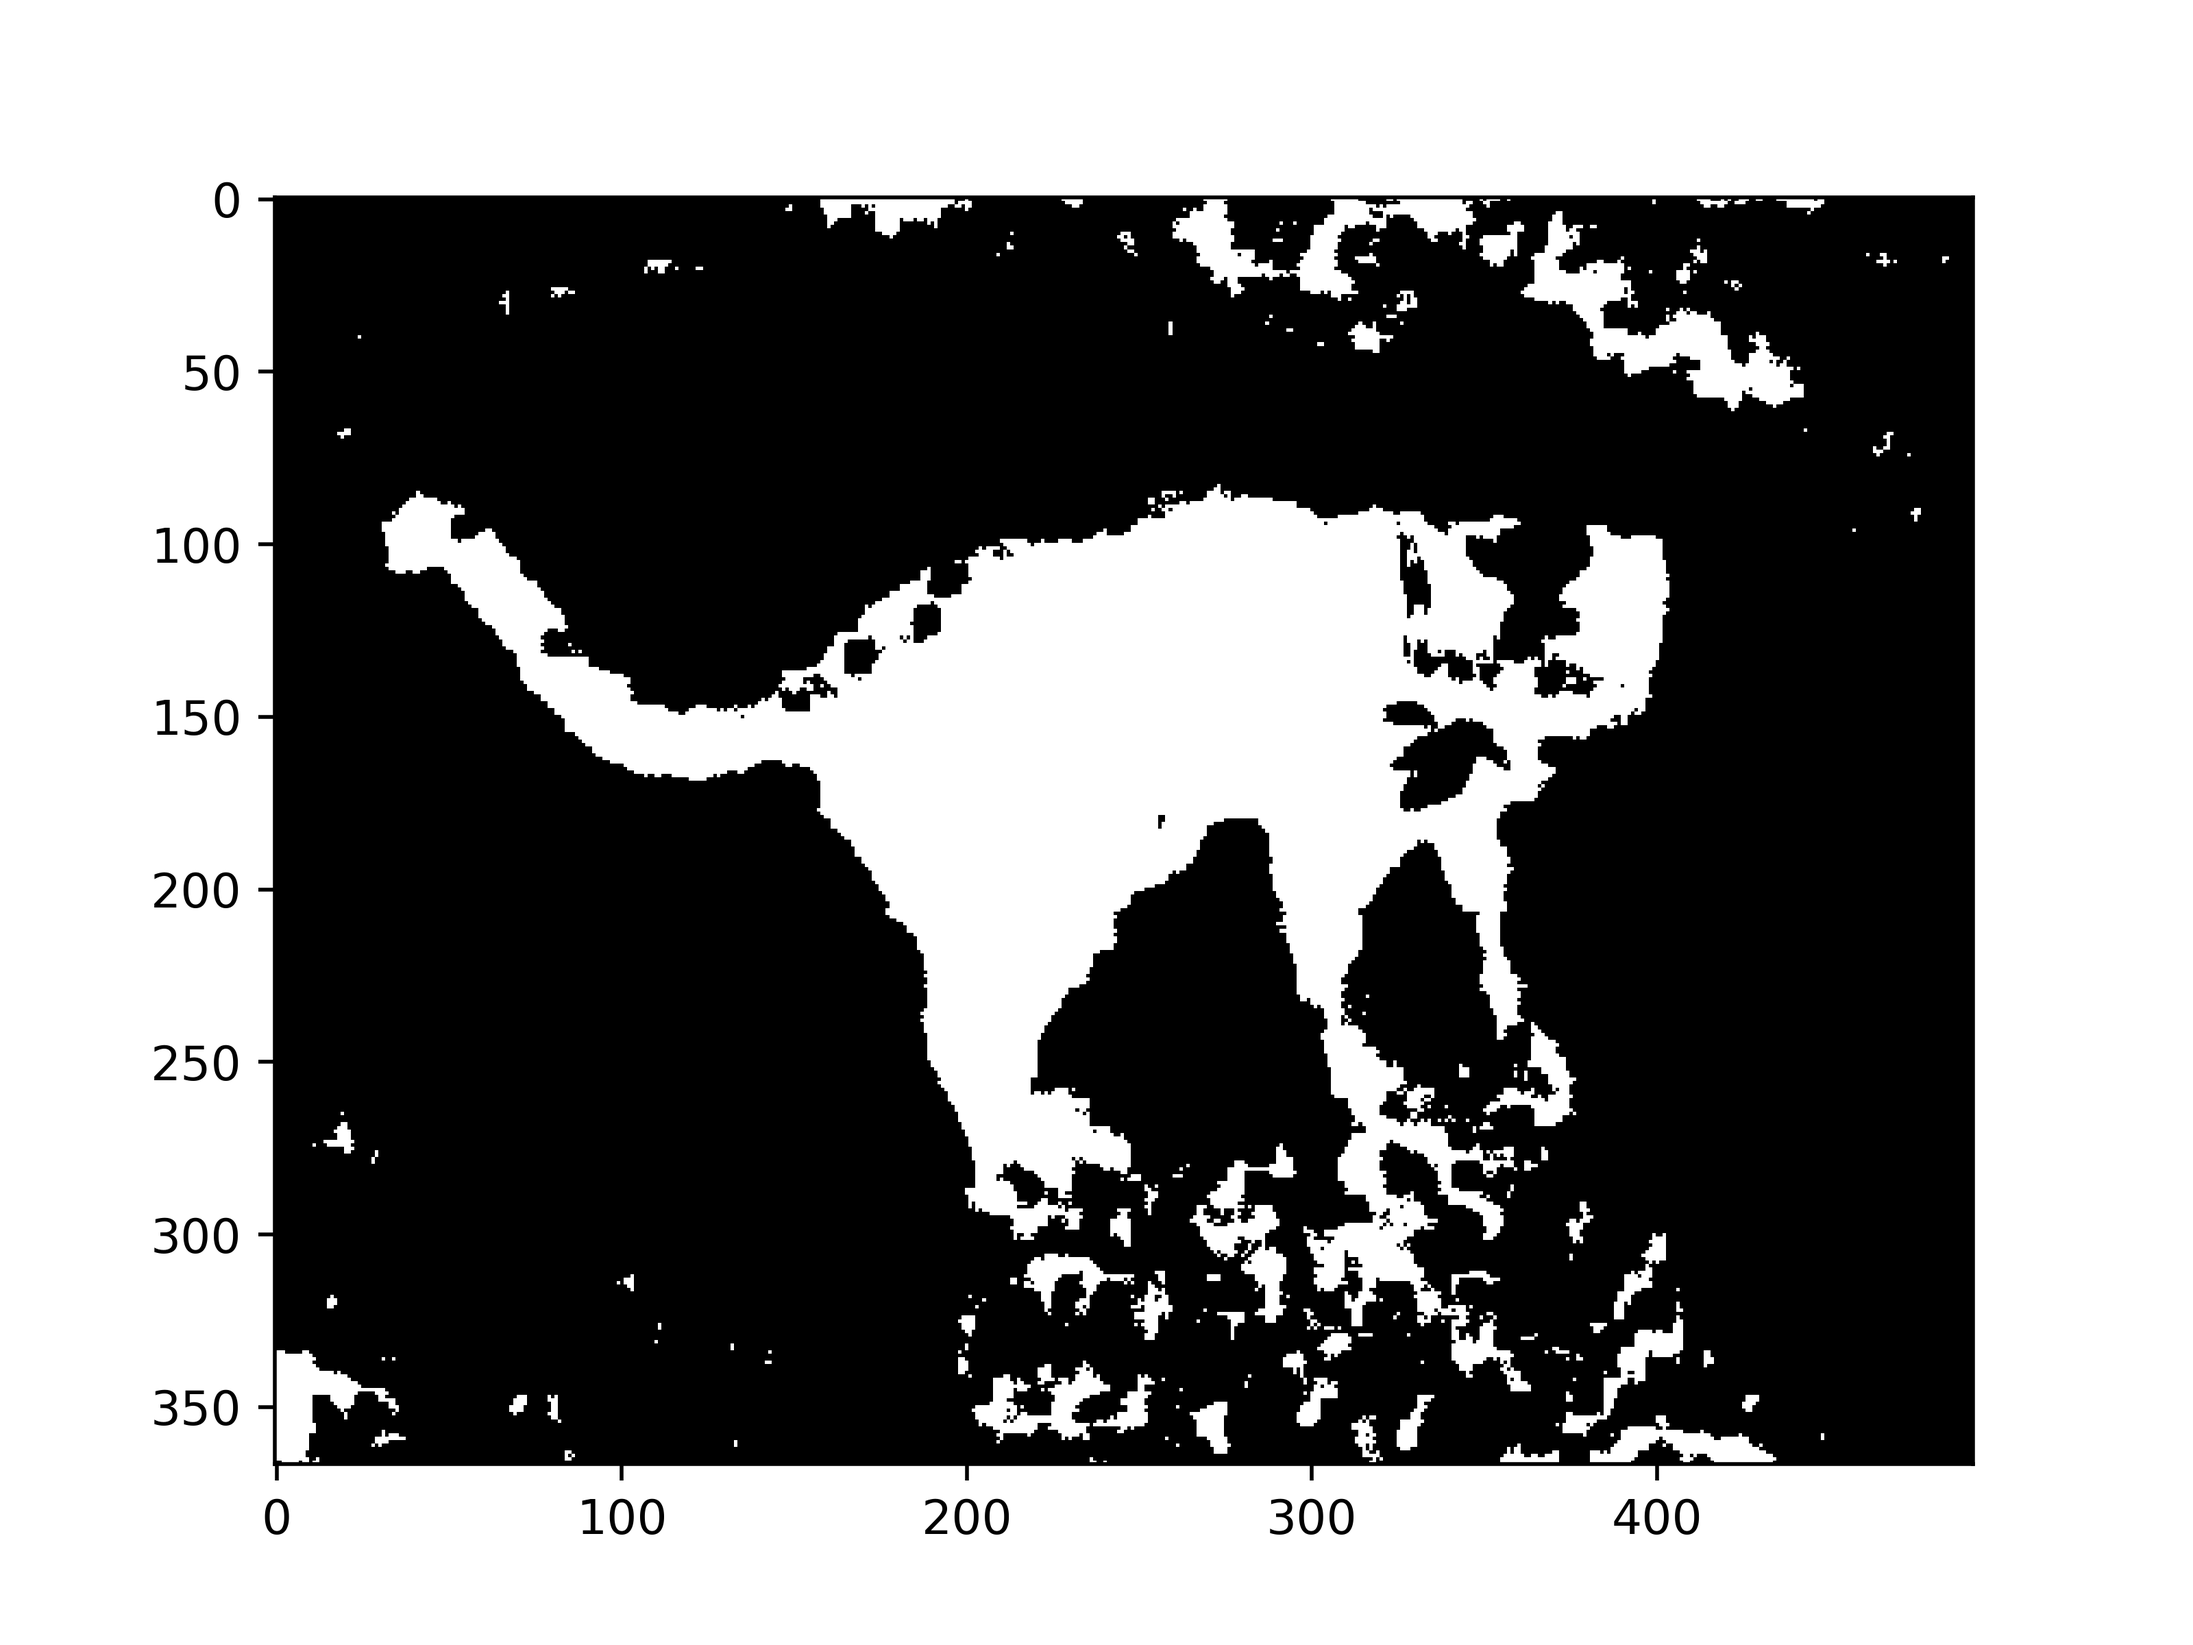
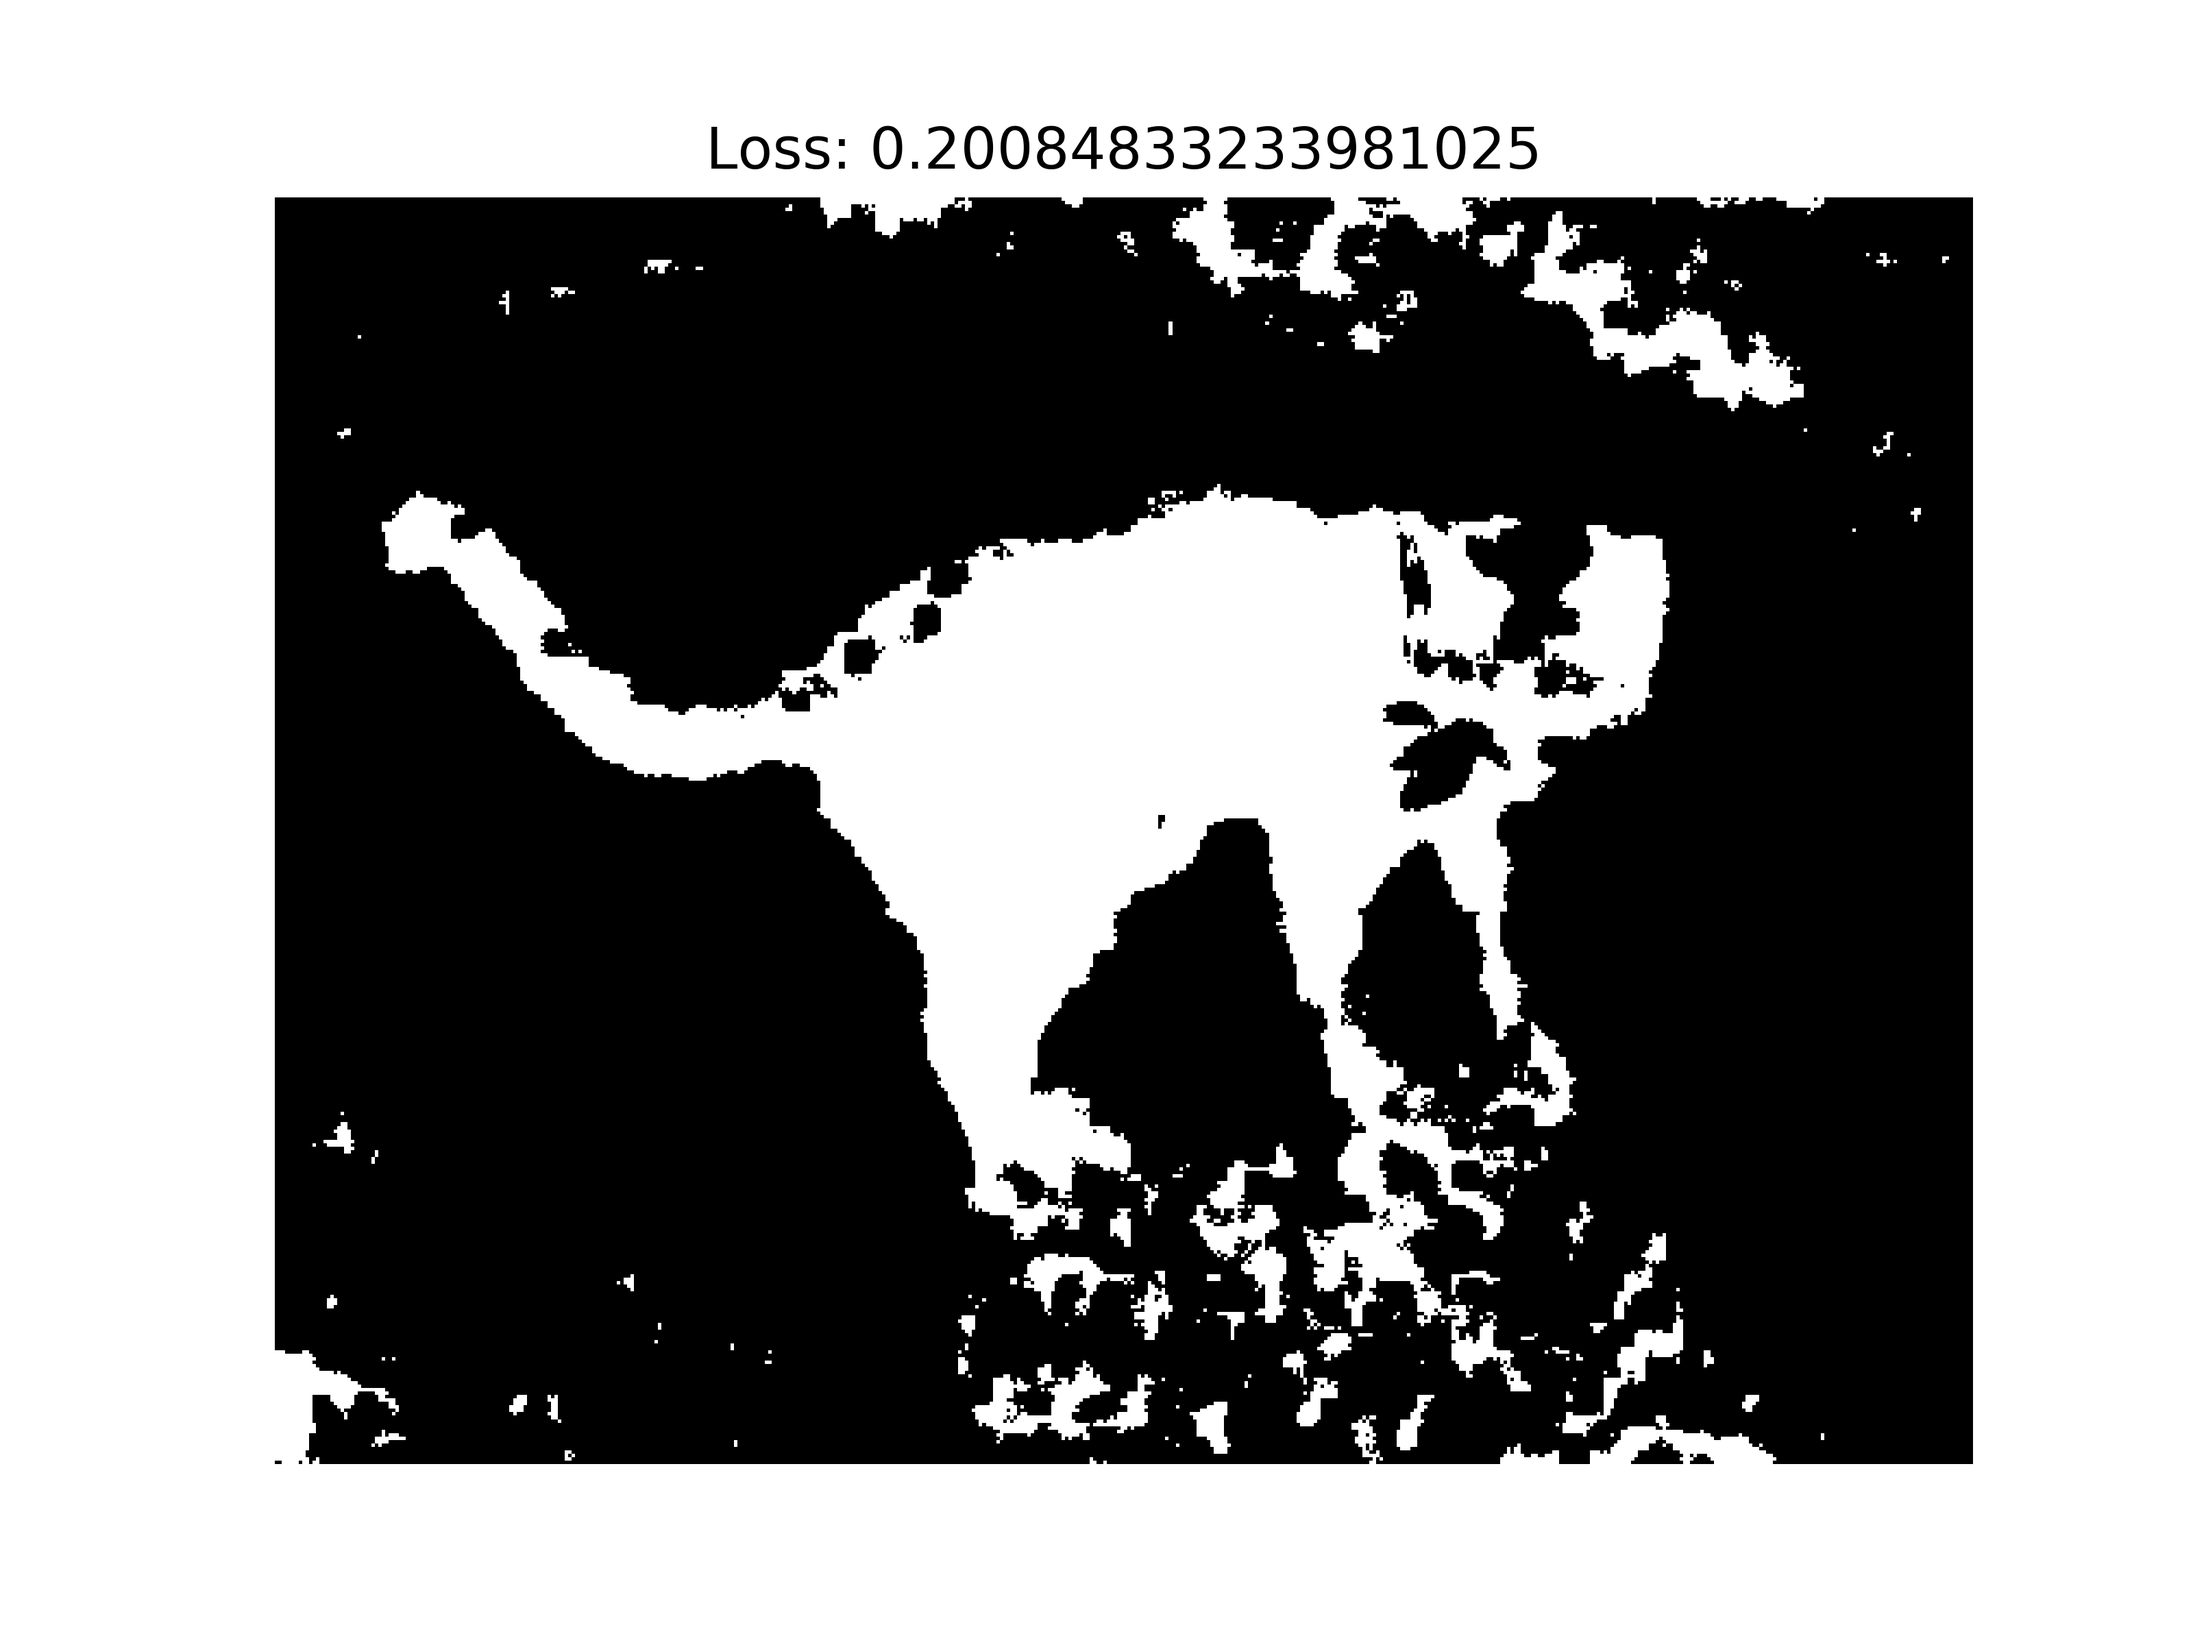
HW3

diff --git a/HW3/HW3_EX2.py b/HW3/HW3_EX2.py
@@ -38,20 +38,47 @@ def decision_func(x):
     return label
 
 
+def cal_loss(output):
+    loss = 0
+    truth = plt.imread('data/truth.png') / 255
+    x, y = truth.shape
+    count = 0
+    for k in range(x - 8):
+        for l in range(y - 8):
+            loss += np.abs(output[k, l] - truth[k, l])
+            count += 1
+    return loss / count
+
+
 if __name__ == '__main__':
-    img = plt.imread('data/cat_grass.jpg') / 255
-    m, n = img.shape
-    output = np.zeros((m - 8, n - 8))
+    img = plt.imread('data/cheetah_on_grass.jpg') / 255
+    m, n, c = img.shape
+    img = (img[:, :, 0] + img[:, :, 1] + img[:, :, 2]) / c
+    output_overlap = np.zeros((m - 8, n - 8))
+    output_non_overlap = np.zeros((m - 8, n - 8))
     process = 0
     for i in range(m - 8):
         for j in range(n - 8):
-            patch = img[i:i + 8, j:j + 8]
-            patch = np.reshape(patch, (64, 1))
-            output[i, j] = decision_func(patch)
+            # non-overlap
+            if (i % 8 == 0) and (j % 8 == 0):
+                patch_non_overlap = img[i:i + 8, j:j + 8]
+                patch_non_overlap = np.reshape(patch_non_overlap, (64, 1))
+                output_non_overlap[i:i + 8, j:j + 8] = decision_func(patch_non_overlap)
+            patch_overlap = img[i:i + 8, j:j + 8]
+            patch_overlap = np.reshape(patch_overlap, (64, 1))
+            output_overlap[i, j] = decision_func(patch_overlap)
             print(process / ((m - 8) * (n - 8)))
             process += 1
-    plt.imshow(output * 255, cmap='gray')
-    # plt.axis('off')
-    # plt.imshow(Y, cmap='gray')
-    plt.savefig("screenshot/1.png", transparent=True, dpi=500, pad_inches=0)
+    # loss_overlap = cal_loss(output_overlap)
+    # loss_non_overlap = cal_loss(output_non_overlap)
+    plt.figure()
+    plt.axis('off')
+    # plt.title('Loss: ' + str(loss_overlap))
+    plt.imshow(output_overlap * 255, cmap='gray')
+    plt.savefig("screenshot/5.png", transparent=True, dpi=500, pad_inches=0)
+    plt.figure()
+    plt.axis('off')
+    # plt.title('Loss: ' + str(loss_non_overlap))
+    plt.imshow(output_non_overlap * 255, cmap='gray')
+    plt.savefig("screenshot/6.png", transparent=True, dpi=500, pad_inches=0)
     plt.show()
